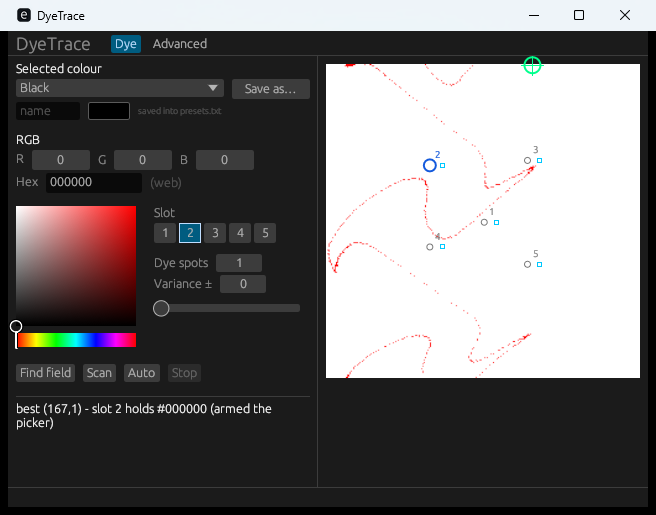
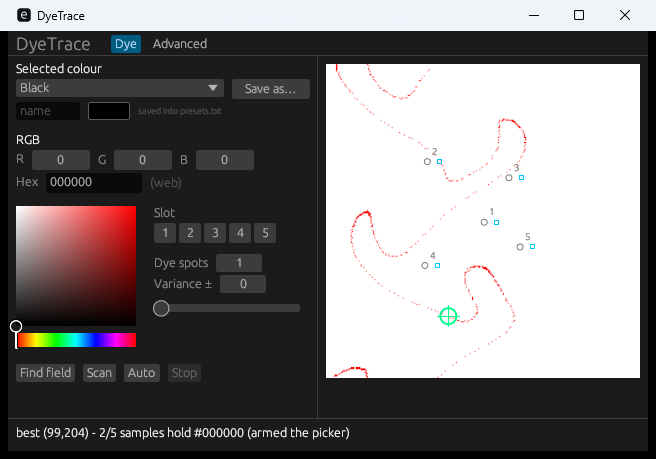
Put the status line where the log used to be
The white status text moves to the bottom edge of the window, full width, and the grey log view is gone. The worker no longer sends log lines to the interface - the command line still prints the same detail, and a job's outcome is summarised in the status line. The window is shorter by the height the log could grow to.

diff --git a/crates/ui/src/app.rs b/crates/ui/src/app.rs
@@ -40,7 +40,6 @@ pub struct DyeTraceApp {
     worker: Worker,
     scan: Option<Scan>,
     status: String,
-    log: Vec<String>,
     tab: Tab,
 }
 
@@ -68,7 +67,6 @@ impl DyeTraceApp {
             worker: Worker::spawn(),
             scan: None,
             status: "open the dye window in game, then press Find".to_string(),
-            log: Vec::new(),
             tab: Tab::Dye,
         };
         app.set_colour(Rgb::black());
@@ -109,12 +107,6 @@ impl DyeTraceApp {
         for message in self.worker.poll() {
             match message {
                 Msg::Status(text) => self.status = text,
-                Msg::Log(line) => {
-                    self.log.push(line);
-                    if self.log.len() > 200 {
-                        self.log.remove(0);
-                    }
-                }
                 Msg::Scanned(scan) => {
                     self.hit_key = (u32::MAX, 0);
                     self.scan = Some(*scan);
@@ -265,10 +257,6 @@ impl DyeTraceApp {
                 self.worker.request_stop();
             }
         });
-
-        ui.add_space(8.0);
-        ui.separator();
-        ui.label(RichText::new(&self.status).strong());
     }
 
     /// The colour picker, directly under the hex box, with the matching
@@ -440,16 +428,11 @@ impl DyeTraceApp {
         }
     }
 
-    fn log_panel(&mut self, ui: &mut egui::Ui) {
-        egui::ScrollArea::vertical()
-            .stick_to_bottom(true)
-            .auto_shrink([false, true])
-            .max_height(64.0)
-            .show(ui, |ui| {
-                for line in &self.log {
-                    ui.label(RichText::new(line).monospace().small().weak());
-                }
-            });
+    /// The one line of feedback, along the bottom edge of the window.
+    fn status_bar(&mut self, ui: &mut egui::Ui) {
+        ui.add_space(6.0);
+        ui.label(RichText::new(&self.status).strong());
+        ui.add_space(6.0);
     }
 
     fn advanced(&mut self, ui: &mut egui::Ui) {
@@ -497,8 +480,8 @@ impl eframe::App for DyeTraceApp {
             });
         });
 
-        egui::TopBottomPanel::bottom("log").show(ctx, |ui| {
-            self.log_panel(ui);
+        egui::TopBottomPanel::bottom("status").show(ctx, |ui| {
+            self.status_bar(ui);
         });
 
         if self.tab == Tab::Dye {

diff --git a/crates/ui/src/worker.rs b/crates/ui/src/worker.rs
@@ -22,7 +22,6 @@ pub enum Job {
 #[derive(Debug)]
 pub enum Msg {
     Status(String),
-    Log(String),
     Scanned(Box<Scan>),
     Finished,
 }
@@ -146,9 +145,7 @@ fn run_job(job: Job, messages: &Sender<Msg>, stop: &Arc<AtomicBool>) {
         Job::Auto(mut opts) => {
             opts.stop = Some(Arc::clone(stop));
             send(Msg::Status("auto running - Stop to end".to_string()));
-            let outcome = cycle::run(&window, &screen, &mouse, &opts, |line| {
-                let _ = messages.send(Msg::Log(line.to_string()));
-            });
+            let outcome = cycle::run(&window, &screen, &mouse, &opts, |_| {});
             send(Msg::Status(match outcome {
                 cycle::Outcome::Matched {
                     x,

diff --git a/crates/ui/src/main.rs b/crates/ui/src/main.rs
@@ -14,8 +14,8 @@ mod worker;
 fn main() -> eframe::Result<()> {
     let options = eframe::NativeOptions {
         viewport: eframe::egui::ViewportBuilder::default()
-            .with_inner_size([640.0, 476.0])
-            .with_min_inner_size([620.0, 460.0])
+            .with_inner_size([640.0, 420.0])
+            .with_min_inner_size([620.0, 400.0])
             .with_title("DyeTrace"),
         ..Default::default()
     };

diff --git a/README.md b/README.md
@@ -67,7 +67,8 @@ cl /nologo /O2 /W3 /D_CRT_SECURE_NO_WARNINGS dyetrace.c /Fe:dyetrace.exe ^
 ## Usage
 
 `dyetrace-ui.exe` is the window: the controls and the colour picker on the
-left, the search preview on the right, and a log along the bottom.
+left, the search preview on the right, and one line of feedback along the
+bottom.
 
 | Control | Meaning |
 |---|---|
@@ -175,7 +176,7 @@ anything, which makes it the safe way to check a C build.
 | `no gradient - open the dye window and leave it visible` | The palette is not on screen, or the client is behind another window. Open the dye window and keep it visible. |
 | `move this window off the palette - it is covering the colours` | DyeTrace is overlapping the gradient; move it aside. |
 | Auto keeps cancelling | The `btn x/y` offsets are not hitting Pick Color / Cancel on your layout. Check them with a screenshot. |
-| The dye window closed itself | A Cancel click landed while the button still read Pick Color. Current builds read the label first and only press Cancel when it reads Start Dyeing; if you see this, report the log lines beginning `button reads`. |
+| The dye window closed itself | A Cancel click landed while the button still read Pick Color. Current builds read the label first and only press Cancel when it reads Start Dyeing; if you see this, run the same job from the command line, which prints the lines beginning `button reads`. |
 | Nothing gets clicked | The client ignores `SetCursorPos` for its hover state; DyeTrace also injects real mouse movement. If the cursor cannot be placed, the status says `auto: cursor did not reach the match - cycle aborted` and the cycle stops rather than clicking blind. |
 | Wrong spot gets picked | Loosen or tighten `variance`, or change `slots`. Compare against the red hit map — it shows exactly what the search sees. |
 
